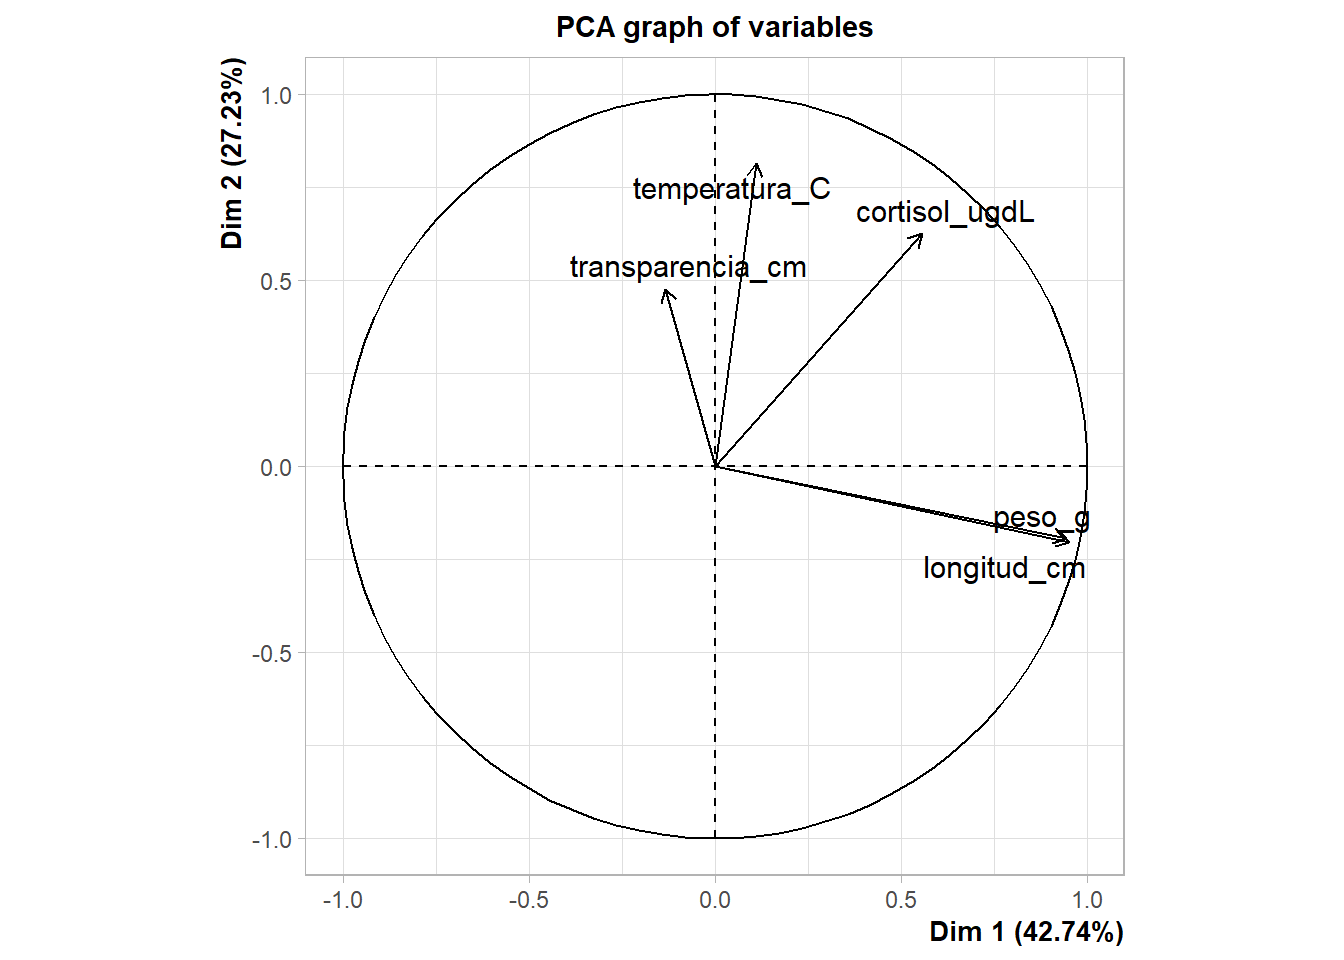
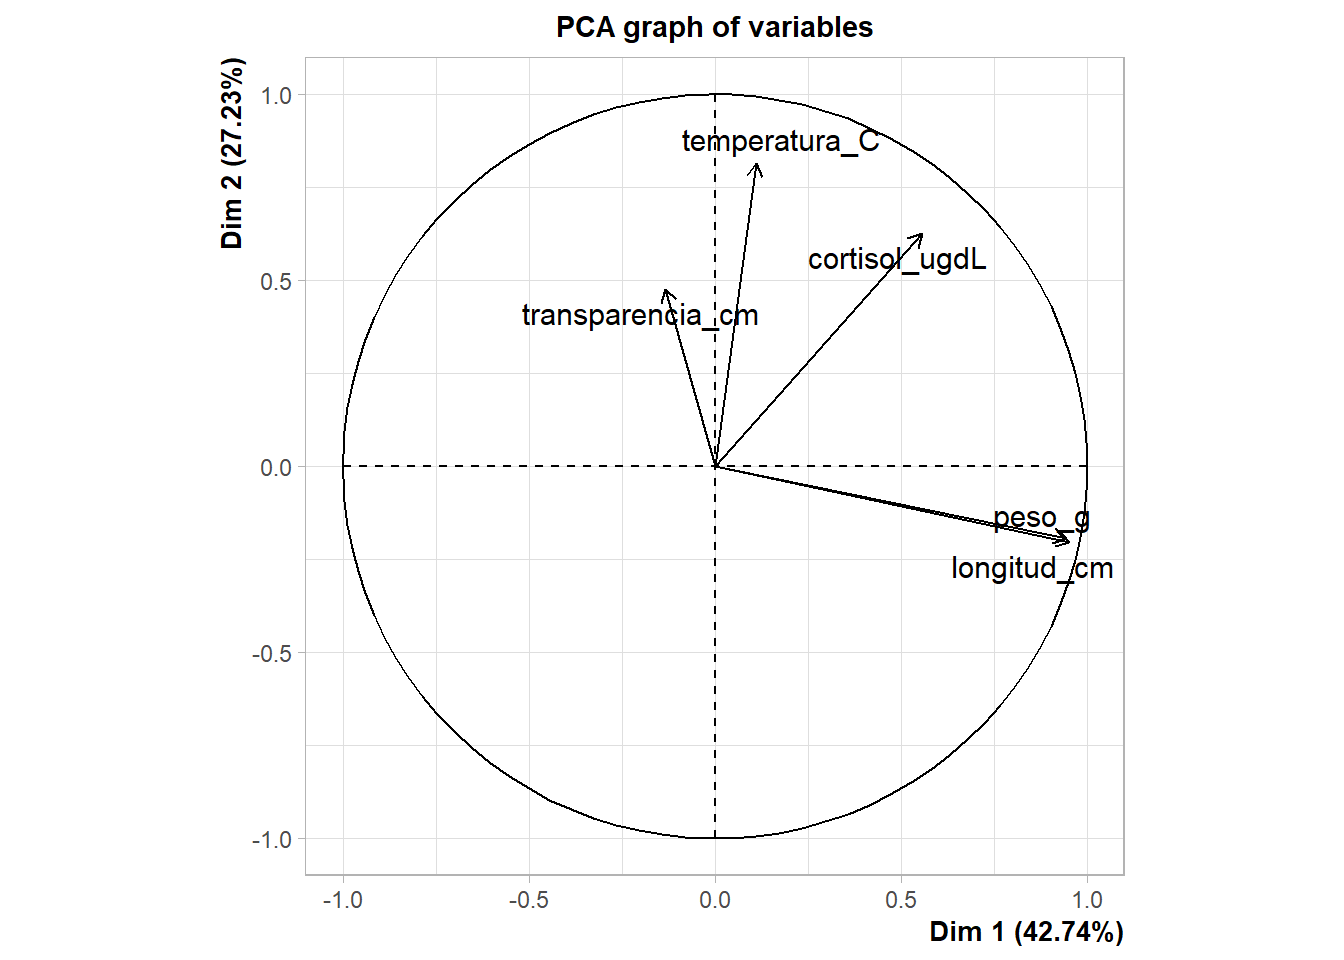
Saco Alim de multivariado

diff --git a/docs/unidad_5/unidad_5_q.html b/docs/unidad_5/unidad_5_q.html
@@ -655,7 +655,7 @@ pre > code.sourceCode > span > a:first-child::before { text-decoration: underlin
 <section id="gráficos-de-biplot-para-análisis-multivariado" class="level2" data-number="1.6">
 <h2 data-number="1.6" class="anchored" data-anchor-id="gráficos-de-biplot-para-análisis-multivariado"><span class="header-section-number">1.6</span> Gráficos de biplot para análisis multivariado</h2>
 <p>Esta sección tiene por objetivo mostrar que el conocimiento de los gráficos con ggplot2 sobrepasan al uso individual de este paquete, sino que hay mucho otros que se basan en él para generar gráficos. Un ejemplo de ello es el paquete <em>factoextra</em> para gráficos multivariados.</p>
-<p>Vamos a desarrollar un ejemplo donde armamos un biplot a partir de un análisis de componentes principales (PCA). Vamos a retomar a la base de datos ALIM, y haremos un PCA comparando la concentración de distintos metales en los órganos, su peso seco y verdor. Para ello ejecutamos:</p>
+<p>Vamos a desarrollar un ejemplo donde armamos un biplot a partir de un análisis de componentes principales (PCA). Vamos a retomar a la base de datos de peces, y haremos un PCA comparando las distintas variables numéricas. Para ello ejecutamos:</p>
 <div class="cell">
 <div class="code-copy-outer-scaffold"><div class="sourceCode cell-code" id="cb27"><pre class="sourceCode r code-with-copy"><code class="sourceCode r"><span id="cb27-1"><a href="#cb27-1" aria-hidden="true" tabindex="-1"></a><span class="fu">library</span>(factoextra);<span class="fu">library</span>(FactoMineR);<span class="fu">library</span>(ggrepel)</span></code></pre></div><button title="Copy to Clipboard" class="code-copy-button"><i class="bi"></i></button></div>
 <div class="cell-output cell-output-stderr">
